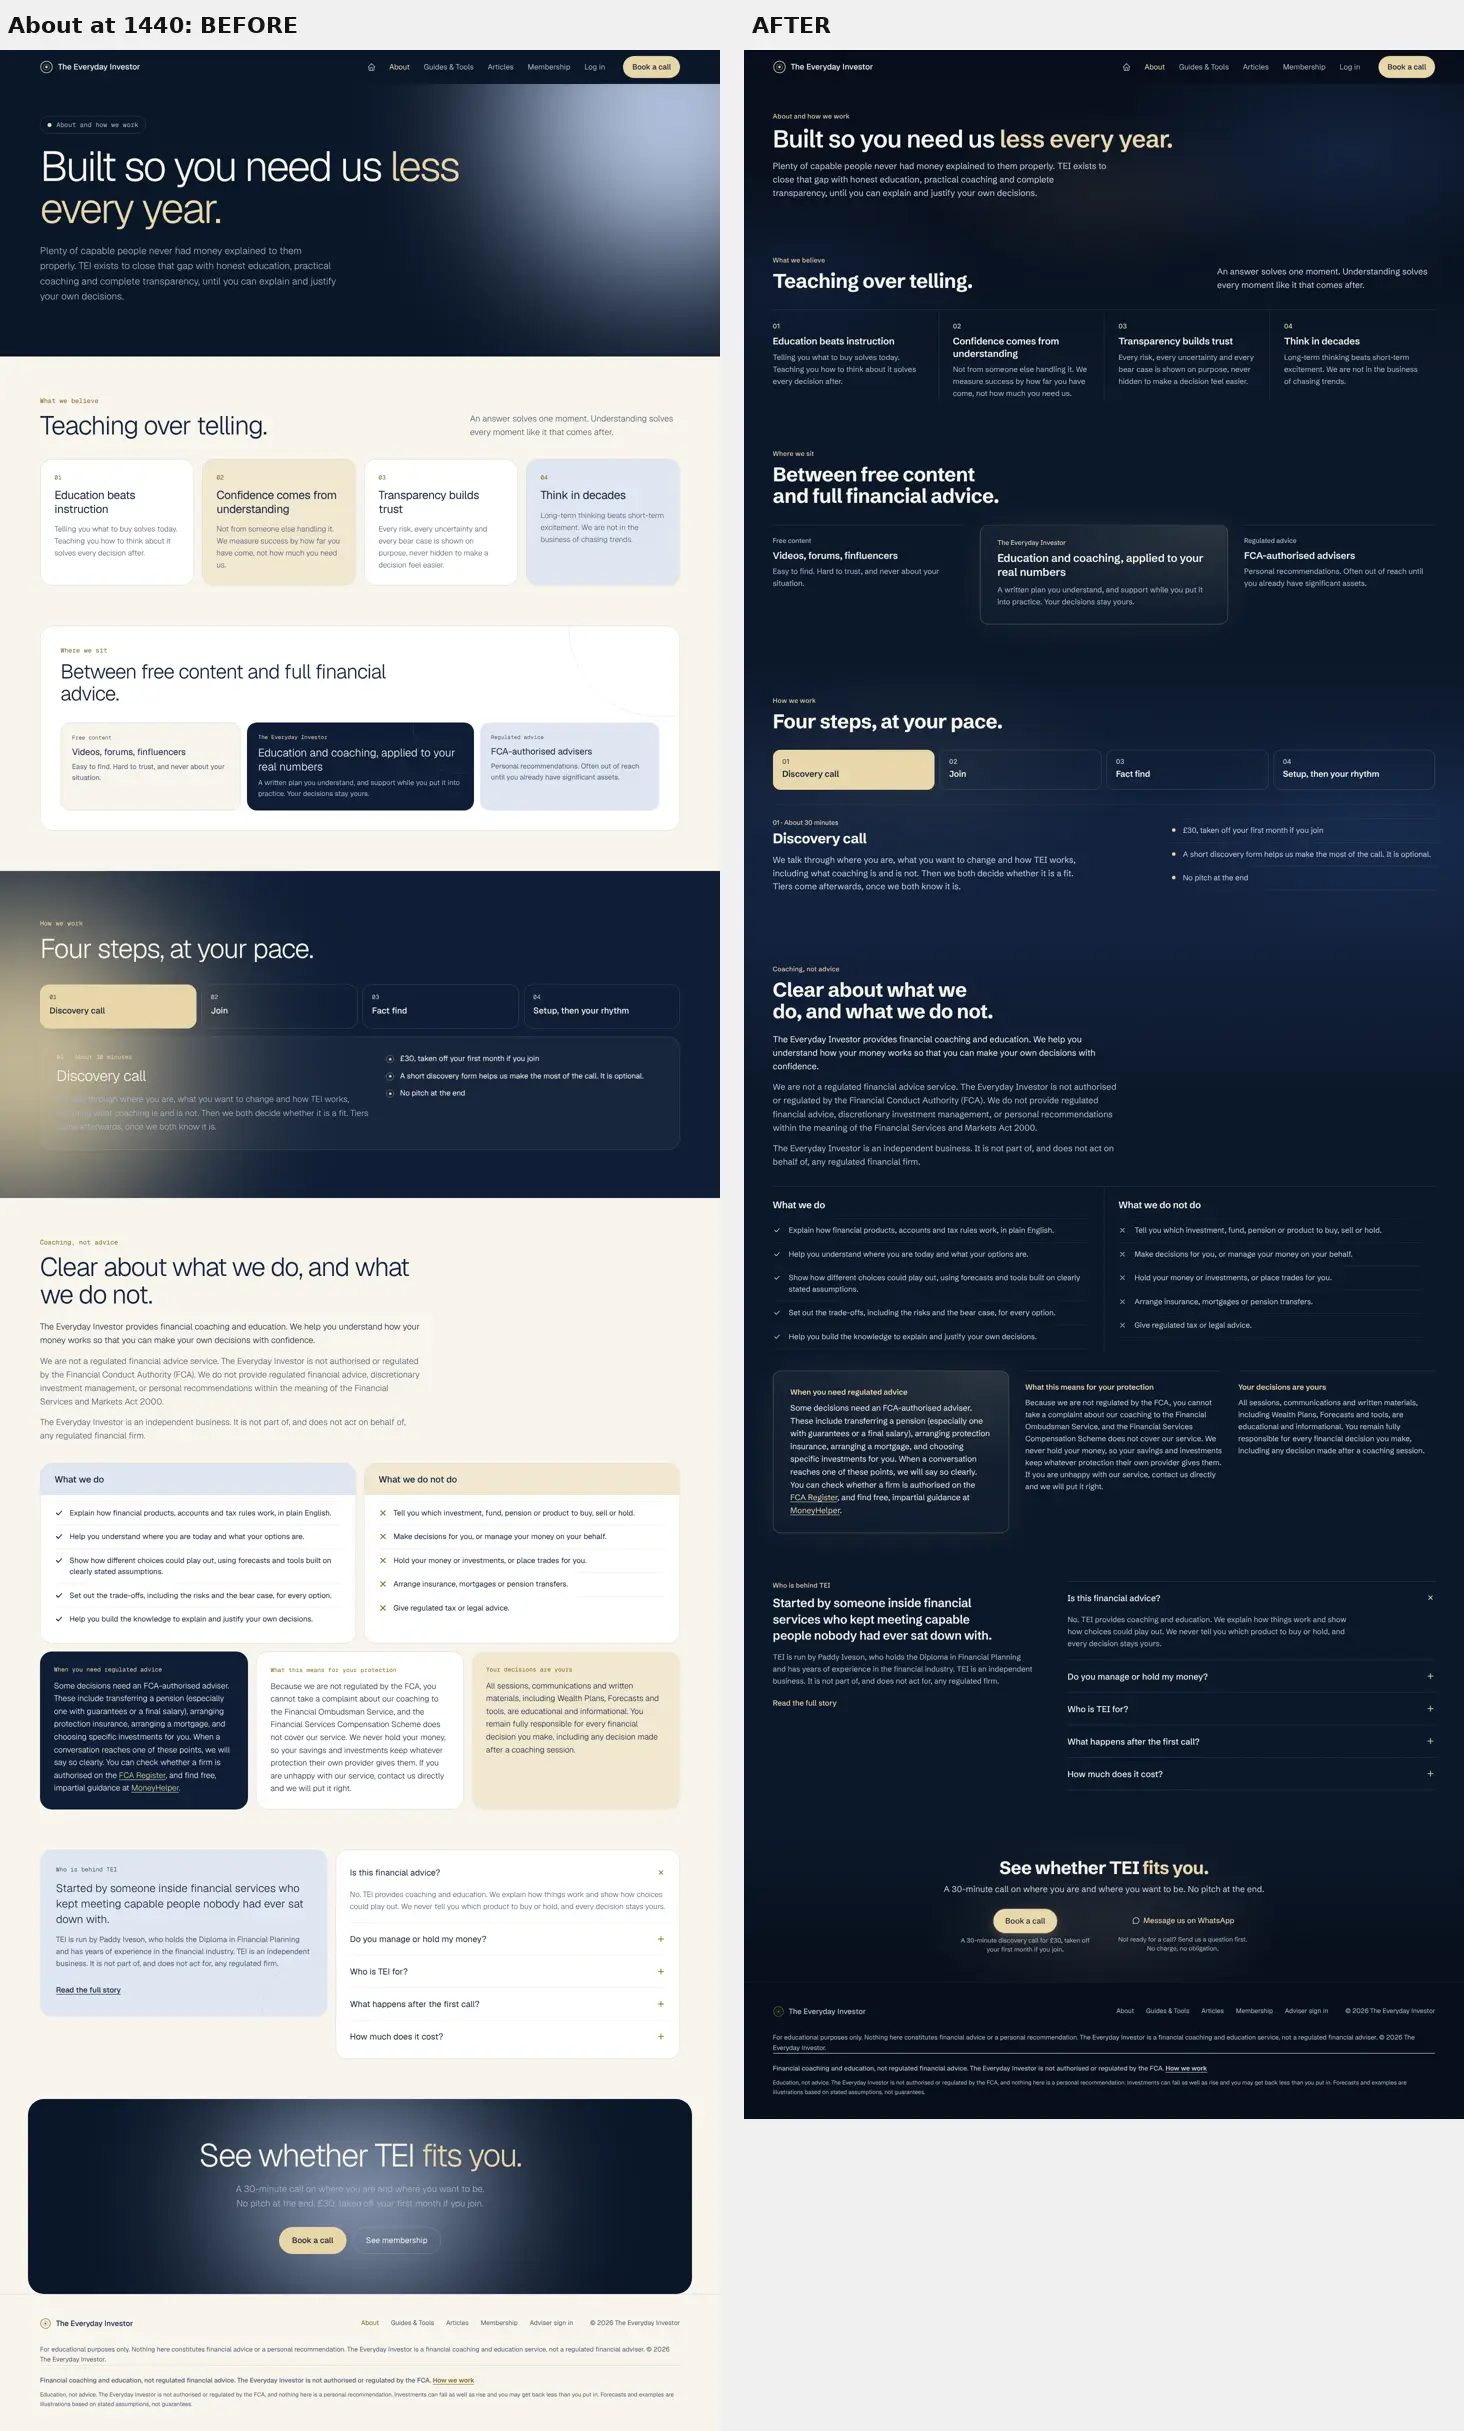
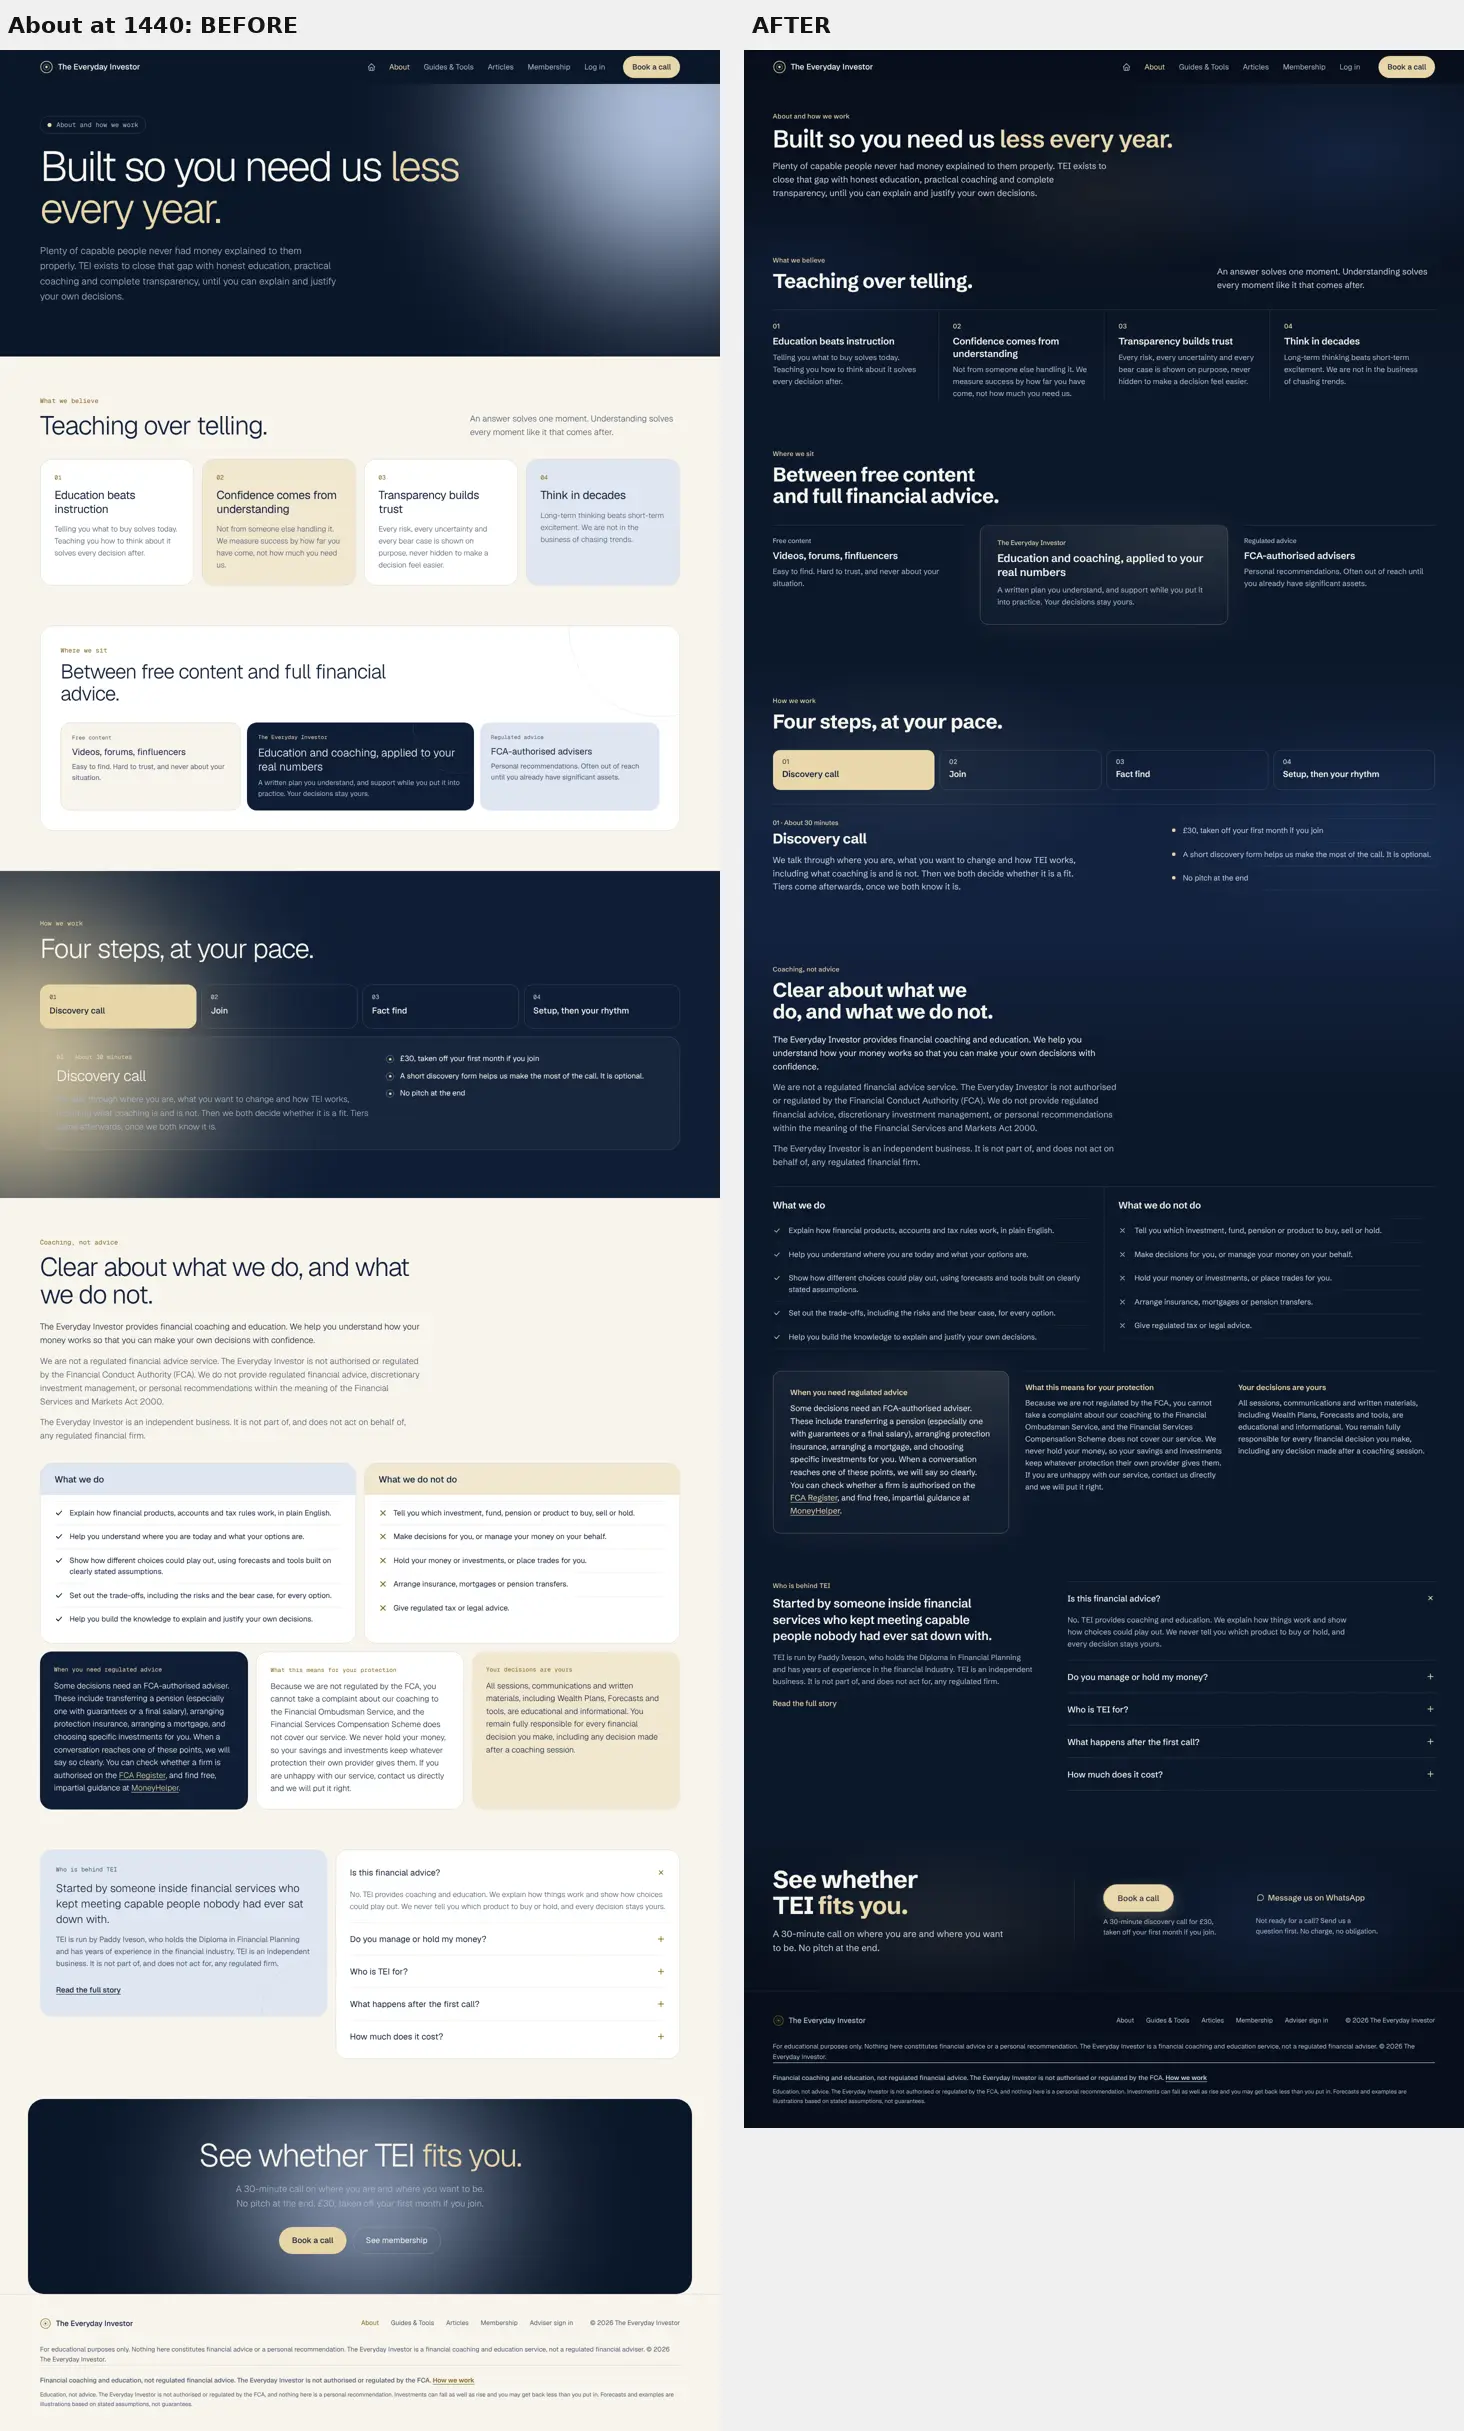
Close: use the width, more air, monthly email inside the close
On wide screens the close splits: heading and line on the left, Book a call
and WhatsApp side by side on the right behind a hairline, with the monthly
email under them on Articles and Guides & Tools. More space between the parts
at every width above phones. The members line stays a slim row underneath on
Guides & Tools.

Claude-Session: https://claude.ai/code/session_015wx5T2NdFvhirkWaQMYv9o

diff --git a/assets/site-ground.css b/assets/site-ground.css
@@ -259,17 +259,46 @@ body.tei-ground {
 .g-close .tei-opt-cap { max-width: 36ch; text-align: center; color: var(--g-muted); font-family: var(--tei-word); font-size: 12.5px; }
 .g-close .g-lnk.is-wa { min-height: 46px; }
 .g-rows { width: 100%; margin-top: 44px; text-align: left; }
-.g-row { display: flex; flex-wrap: wrap; align-items: center; gap: 12px 24px; padding: 18px 0; border-top: 1px solid var(--g-line); }
-.g-row:last-child { border-bottom: 1px solid var(--g-line); }
-.g-row > p { flex: 1 1 380px; margin: 0; font-size: 15px; line-height: 1.5; color: var(--g-sub); }
-.g-row > p b { font-weight: 500; color: var(--g-ink); }
-.g-row form { display: flex; gap: 8px; flex: 0 1 420px; min-width: 0; }
-.g-row input { flex: 1; min-width: 0; min-height: 46px; box-sizing: border-box; border-radius: 999px; border: 1px solid rgba(232, 214, 168, .22); background: rgba(255, 255, 255, .04); padding: 0 18px; font-family: inherit; font-size: 16px; color: var(--g-ink); }
-.g-row input::placeholder { color: var(--g-muted); }
-.g-row .g-btn { min-height: 46px; padding: 0 18px; font-size: 14.5px; box-shadow: none; }
-.g-row > .g-msg { flex: 1 1 100%; width: 100%; margin: 0; font-size: 13px; color: var(--g-muted); }
-.g-row .g-msg:empty { display: none; }
-.g-row .g-msg.is-error { color: var(--g-warm); }
+/* The monthly email inside the close (Articles, Guides & Tools): under the
+   two actions, behind a hairline. */
+.g-nl { width: 100%; max-width: 560px; margin: 32px auto 0; padding-top: 24px; border-top: 1px solid var(--g-line); text-align: left; display: flex; flex-wrap: wrap; gap: 10px; }
+.g-nl > p { flex: 1 1 100%; margin: 0; font-size: 15px; line-height: 1.5; color: var(--g-sub); }
+.g-nl > p b { font-weight: 500; color: var(--g-ink); }
+.g-nl form { flex: 1 1 100%; display: flex; gap: 8px; min-width: 0; }
+.g-nl input { flex: 1; min-width: 0; min-height: 46px; box-sizing: border-box; border-radius: 999px; border: 1px solid rgba(232, 214, 168, .22); background: rgba(255, 255, 255, .04); padding: 0 18px; font-family: inherit; font-size: 16px; color: var(--g-ink); }
+.g-nl input::placeholder { color: var(--g-muted); }
+.g-nl .g-btn { min-height: 46px; padding: 0 20px; font-size: 14.5px; box-shadow: none; }
+.g-nl > .g-msg { font-size: 13px; color: var(--g-muted); }
+.g-nl > .g-msg.is-error { color: var(--g-warm); }
+
+/* More air between the parts on every width above phones (Paddy, 10 Nov:
+   the close was squashed). */
+@media (min-width: 861px) {
+  .g-close .g-w { padding-top: 80px; padding-bottom: 72px; }
+  .g-close .g-h2 { font-size: 44px; }
+  .g-close .g-lede { margin-top: 16px; font-size: 18px; }
+  .g-close .tei-opts { gap: 18px 64px; margin-top: 36px; }
+  .g-close .g-btn { min-height: 52px; padding: 0 28px; font-size: 16px; }
+  .g-close .g-lnk.is-wa { min-height: 52px; font-size: 16px; }
+  .g-close .tei-opt-cap { font-size: 13px; }
+}
+/* Wide screens: the close uses the width. Heading and line on the left; the
+   two actions side by side on the right behind a hairline, with the monthly
+   email under them where the page has it. */
+@media (min-width: 1100px) {
+  .g-close { text-align: left; }
+  .g-close .g-w { display: grid; grid-template-columns: minmax(0, 5fr) minmax(0, 7fr); column-gap: clamp(48px, 6vw, 112px); align-items: center; }
+  .g-close .g-h2 { max-width: 16ch; font-size: clamp(44px, 3.4vw, 56px); line-height: 1.05; }
+  .g-close .g-lede { margin: 18px 0 0; max-width: 42ch; }
+  .g-close .g-w > .g-close-act { grid-column: 2; grid-row: 1; align-self: center; padding: 8px 0 8px clamp(40px, 4vw, 72px); border-left: 1px solid var(--g-line); }
+  .g-close .tei-opts { margin: 0; display: grid; grid-template-columns: repeat(2, minmax(0, max-content)); justify-content: start; gap: 24px clamp(40px, 4vw, 72px); }
+  .g-close .tei-opt { align-items: flex-start; gap: 10px; }
+  .g-close .tei-opt-cap { max-width: 30ch; text-align: left; font-size: 13.5px; line-height: 1.5; }
+  .g-close .g-nl { margin: 28px 0 0; max-width: 600px; }
+  .g-close .g-close-txt { grid-column: 1; grid-row: 1; }
+  .g-close .g-w > .g-rows { grid-column: 1 / -1; grid-row: 2; margin-top: 64px; }
+  .g-close .g-glow-close { background: radial-gradient(560px 260px at 28% 250px, rgba(232, 214, 168, .09), transparent 70%), radial-gradient(520px 240px at 74% 260px, rgba(38, 66, 112, .30), transparent 70%); }
+}
 @media (max-width: 860px) {
   .g-close .g-w { padding-top: 40px; padding-bottom: 36px; }
   .g-close .g-h2 { font-size: 26px; }
@@ -278,6 +307,9 @@ body.tei-ground {
   .g-close .tei-opts--dark .tei-opt > a { align-self: stretch; justify-content: center; }
   .g-close .tei-opt-cap { max-width: none; font-size: 12px; }
   .g-rows { margin-top: 28px; }
+  .g-nl { margin-top: 24px; padding-top: 18px; }
+  .g-nl > p { font-size: 14px; text-align: center; }
+  .g-nl .g-btn { padding: 0 16px; }
   .g-row { flex-direction: column; align-items: stretch; gap: 10px; padding: 14px 0; }
   .g-row > p { flex: none; margin: 0; font-size: 14px; text-align: center; }
   .g-row form { flex: none; }

diff --git a/guides.html b/guides.html
@@ -99,18 +99,22 @@
 <section class="g-band g-b0 g-from1 g-close" aria-labelledby="g-close-h">
 <div class="g-glow g-glow-close" aria-hidden="true"></div>
 <div class="g-w">
+<div class="g-close-txt">
 <h2 class="g-h2" id="g-close-h">Rather talk it through?</h2>
 <p class="g-lede">A 30-minute call about where you are, and whether coaching fits.</p>
+</div>
+<div class="g-close-act">
 <div class="tei-opts tei-opts--dark">
 <div class="tei-opt"><a class="g-btn" href="/book" target="_blank" rel="noopener noreferrer">Book a call</a><p class="tei-opt-cap">A 30-minute discovery call for &pound;30, taken off your first month if you join.</p></div>
 <div class="tei-opt"><a class="g-lnk is-wa" href="https://wa.me/447843868245" target="_blank" rel="noopener noreferrer"><svg viewBox="0 0 24 24" aria-hidden="true"><path d="M4 20l1.3-3.8A8 8 0 1 1 8 19z"></path></svg>Message us on WhatsApp</a><p class="tei-opt-cap">Not ready for a call? Send us a question first. No charge, no obligation.</p></div>
 </div>
-<div class="g-rows">
-<div class="g-row">
+<div class="g-nl">
 <p><b>The monthly email.</b> One email a month. What changed, and what it means.</p>
 <form id="gt-newsletter" data-tei-newsletter="gt-newsletter-msg" novalidate><label for="nl-email" class="g-sr">Email address</label><input id="nl-email" type="email" name="email" autocomplete="email" required placeholder="you@example.com"><button class="g-btn" type="submit">Sign up</button></form>
 <p id="gt-newsletter-msg" class="g-msg" role="status">Education only. Unsubscribe any time.</p>
 </div>
+</div>
+<div class="g-rows">
 <div class="g-row">
 <p><b>Members get more.</b> Structured lessons, research notes and the knowledge library. Everything here stays free. Members also get 36 lessons across the first two stages, the investment suite and members' articles in the Client Hub.</p>
 <a class="g-lnk" href="/membership.html">See membership &rarr;</a>

diff --git a/articles.html b/articles.html
@@ -76,14 +76,16 @@
 <section class="g-band g-b0 g-from1 g-close" aria-labelledby="g-close-h">
 <div class="g-glow g-glow-close" aria-hidden="true"></div>
 <div class="g-w">
+<div class="g-close-txt">
 <h2 class="g-h2" id="g-close-h">Ready when you are.</h2>
 <p class="g-lede">A 30-minute call about where you are, and whether coaching fits.</p>
+</div>
+<div class="g-close-act">
 <div class="tei-opts tei-opts--dark">
 <div class="tei-opt"><a class="g-btn" href="/book" target="_blank" rel="noopener noreferrer">Book a call</a><p class="tei-opt-cap">A 30-minute discovery call for &pound;30, taken off your first month if you join.</p></div>
 <div class="tei-opt"><a class="g-lnk is-wa" href="https://wa.me/447843868245" target="_blank" rel="noopener noreferrer"><svg viewBox="0 0 24 24" aria-hidden="true"><path d="M4 20l1.3-3.8A8 8 0 1 1 8 19z"></path></svg>Message us on WhatsApp</a><p class="tei-opt-cap">Not ready for a call? Send us a question first. No charge, no obligation.</p></div>
 </div>
-<div class="g-rows">
-<div class="g-row al-nl">
+<div class="g-nl">
 <p><b>The monthly email.</b> New articles and what changed this month, in one email.</p>
 <form data-tei-newsletter="al-newsletter-msg" novalidate><label for="al-email" class="g-sr">Email address</label><input id="al-email" type="email" name="email" autocomplete="email" required placeholder="you@example.com"><button class="g-btn" type="submit">Sign up</button></form>
 <p id="al-newsletter-msg" class="g-msg" role="status">Education only. Unsubscribe any time.</p>

diff --git a/membership.html b/membership.html
@@ -167,12 +167,16 @@
 <section class="g-band g-b0 g-from1 g-close" aria-labelledby="g-close-h">
 <div class="g-glow g-glow-close" aria-hidden="true"></div>
 <div class="g-w">
+<div class="g-close-txt">
 <p class="g-eye">Start here</p>
 <h2 class="g-h2" id="g-close-h">A 30-minute discovery call.</h2>
 <p class="g-lede">We talk through where you are and how TEI works, then decide together whether it is a fit.</p>
+</div>
+<div class="g-close-act">
 <div class="tei-opts tei-opts--dark">
 <div class="tei-opt"><a class="g-btn" href="/book" target="_blank" rel="noopener noreferrer">Book a call</a><p class="tei-opt-cap">A 30-minute discovery call for &pound;30, taken off your first month if you join.</p></div>
 <div class="tei-opt"><a class="g-lnk is-wa" href="https://wa.me/447843868245?text=Hi%2C%20I%20came%20across%20The%20Everyday%20Investor%20and%20I%27d%20love%20to%20find%20out%20more%20about%20how%20coaching%20could%20help%20me.%20Could%20we%20book%20in%20a%20quick%20call%3F" target="_blank" rel="noopener noreferrer"><svg viewBox="0 0 24 24" aria-hidden="true"><path d="M4 20l1.3-3.8A8 8 0 1 1 8 19z"></path></svg>Chat on WhatsApp first</a><p class="tei-opt-cap">Not ready for a call? Send us a question first. No charge, no obligation.</p></div>
+</div>
 </div>
 </div>
 </section>

diff --git a/about.html b/about.html
@@ -188,11 +188,15 @@
 <section class="g-band g-b0 g-from1 g-close" aria-labelledby="g-close-h">
 <div class="g-glow g-glow-close" aria-hidden="true"></div>
 <div class="g-w">
+<div class="g-close-txt">
 <h2 class="g-h2" id="g-close-h">See whether TEI <span class="g-accent">fits you.</span></h2>
 <p class="g-lede">A 30-minute call on where you are and where you want to be. No pitch at the end.</p>
+</div>
+<div class="g-close-act">
 <div class="tei-opts tei-opts--dark">
 <div class="tei-opt"><a class="g-btn" href="/book" target="_blank" rel="noopener noreferrer">Book a call</a><p class="tei-opt-cap">A 30-minute discovery call for &pound;30, taken off your first month if you join.</p></div>
 <div class="tei-opt"><a class="g-lnk is-wa" href="https://wa.me/447843868245" target="_blank" rel="noopener noreferrer"><svg viewBox="0 0 24 24" aria-hidden="true"><path d="M4 20l1.3-3.8A8 8 0 1 1 8 19z"></path></svg>Message us on WhatsApp</a><p class="tei-opt-cap">Not ready for a call? Send us a question first. No charge, no obligation.</p></div>
+</div>
 </div>
 </div>
 </section>
